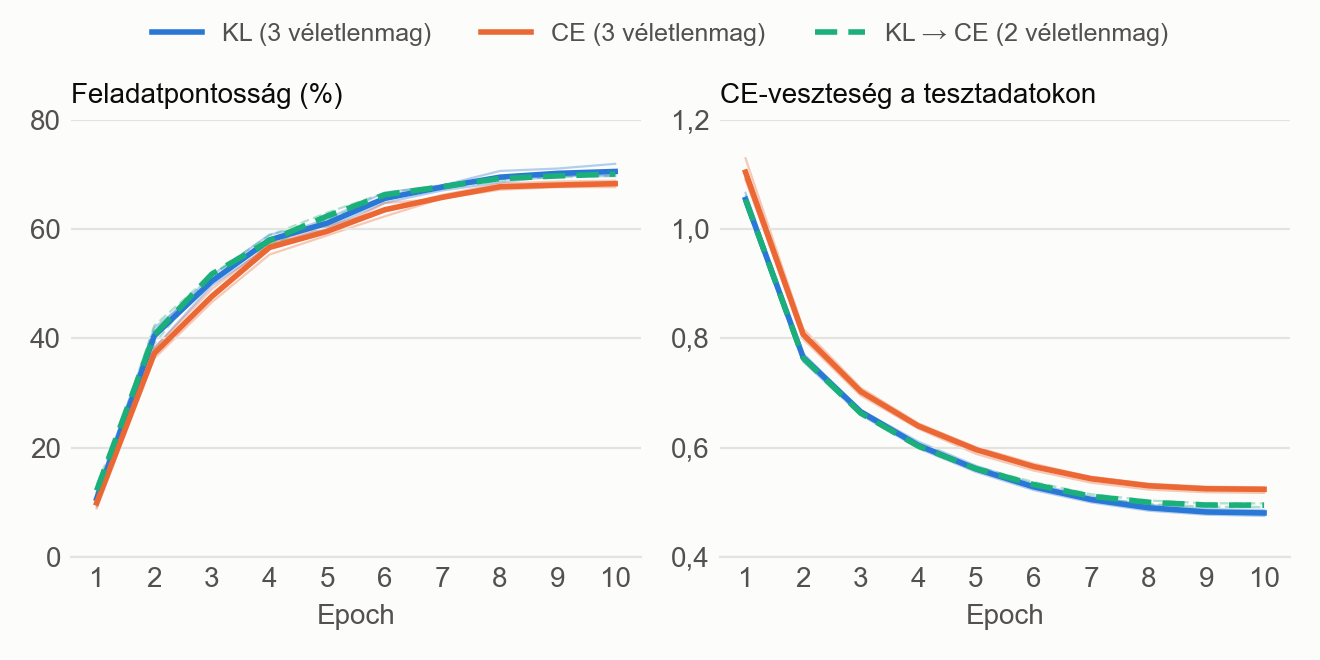
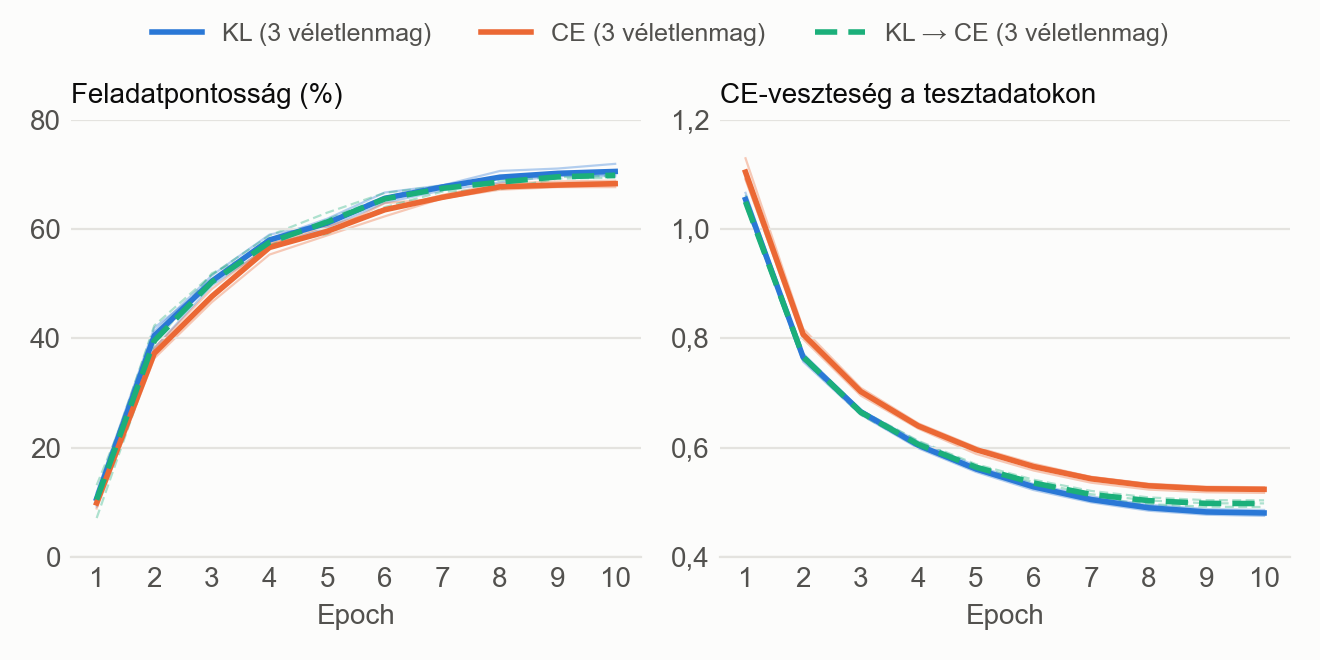
Figure 14 (thesis figure 9.1): KL -> CE with all 3 seeds (seed 3 finished 2026-11-08); the script skips the kl-to-ce rows now in math_agent.csv and reads KL -> CE from its runs

diff --git a/thesis_work/grafikonok/plot_14_math_agent_kl_ce.py b/thesis_work/grafikonok/plot_14_math_agent_kl_ce.py
@@ -1,7 +1,7 @@
 """Thesis figure 9.1 (chapter 9): the math tutor's 16.5M student on the full data, per pass: task accuracy
-(agreement with Gemma's answer) and the test CE loss, pure KL vs pure CE (3 seeds each) and KL -> CE (2 seeds).
+(agreement with Gemma's answer) and the test CE loss, pure KL vs pure CE (3 seeds each) and KL -> CE (3 seeds).
 Thick line = mean of the seeds, thin lines = each seed.
-Data: experiments/results/math_agent.csv (KL, CE) and runs/math-agent-kl-to-ce-m-s{1,2}/logs/training.jsonl.
+Data: experiments/results/math_agent.csv (KL, CE) and runs/math-agent-kl-to-ce-m-s{1,2,3}/logs/training.jsonl.
 Run: python thesis_work/grafikonok/plot_14_math_agent_kl_ce.py (redraws the PNG next to this file)."""
 import csv
 import json
@@ -14,7 +14,7 @@ import matplotlib.ticker
 
 ROOT = Path(r"D:\preference_destillation")
 CSV_PATH = ROOT / "experiments" / "results" / "math_agent.csv"
-KL_TO_CE_RUNS = [ROOT / "runs" / f"math-agent-kl-to-ce-m-s{seed}" / "logs" / "training.jsonl" for seed in (1, 2)]
+KL_TO_CE_RUNS = [ROOT / "runs" / f"math-agent-kl-to-ce-m-s{seed}" / "logs" / "training.jsonl" for seed in (1, 2, 3)]
 OUTPUT = ROOT / "thesis_work" / "grafikonok" / "14_math_agent_kl_ce.png"
 
 SURFACE = "#fcfcfb"
@@ -26,6 +26,8 @@ ARMS = [("kl", "KL", "#2a78d6", "-"), ("ce", "CE", "#eb6834", "-"), ("kl_to_ce",
 curves = {"kl": {}, "ce": {}, "kl_to_ce": {}}   # arm -> seed -> [(pass, task accuracy, test loss)]
 with open(CSV_PATH, encoding="utf-8") as file:
     for row in csv.DictReader(file):
+        if row["arm"] not in curves:   # the CSV now also has "kl-to-ce" rows; KL -> CE is read from its runs below
+            continue
         curves[row["arm"]].setdefault(row["seed"], []).append(
             (int(row["pass"]), float(row["task_accuracy"]), float(row["test_error"])))
 for seed, path in enumerate(KL_TO_CE_RUNS, start=1):

diff --git a/thesis_work/grafikonok/GRAPH_INDEX.md b/thesis_work/grafikonok/GRAPH_INDEX.md
@@ -19,4 +19,4 @@ A script tobbnyire chart-only PNG-ket general. A 06a-c abrakban a modellmeret is
 15. `08_reddit_confusion_matrices.png` - Confusion matrices: Sentiment category mistakes for the 5M-scale run.
 16. `09_postgen_topk_metrics.png` - Post generation top-k: Free-form generation top-k tradeoff.
 17. `10_domain_data_cost.png` - Domain data cost: Why post generation is much more expensive to compile.
-18. `14_math_agent_kl_ce.png` - Thesis figure 9.1: math tutor 16.5M student on the full data, task accuracy and test CE loss per pass, KL vs CE (3 seeds) and KL -> CE (2 seeds); `plot_14_math_agent_kl_ce.py`.
+18. `14_math_agent_kl_ce.png` - Thesis figure 9.1: math tutor 16.5M student on the full data, task accuracy and test CE loss per pass, KL vs CE and KL -> CE (3 seeds each); `plot_14_math_agent_kl_ce.py`.
